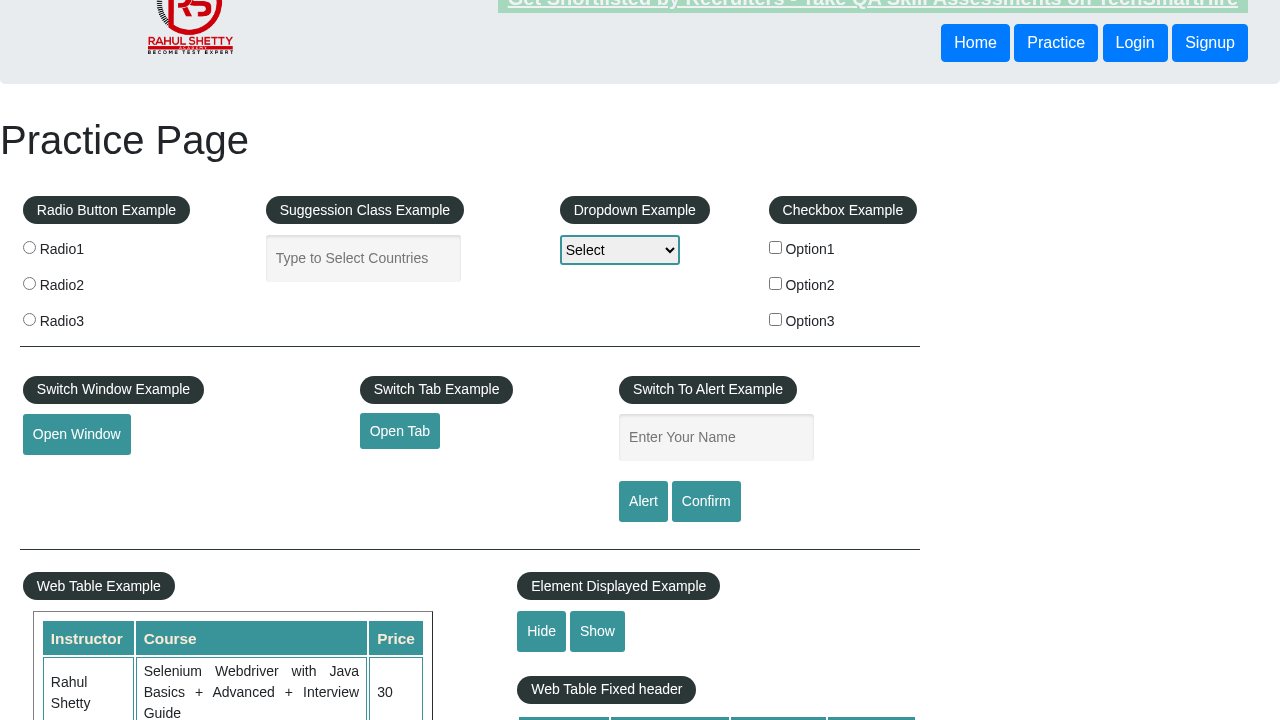
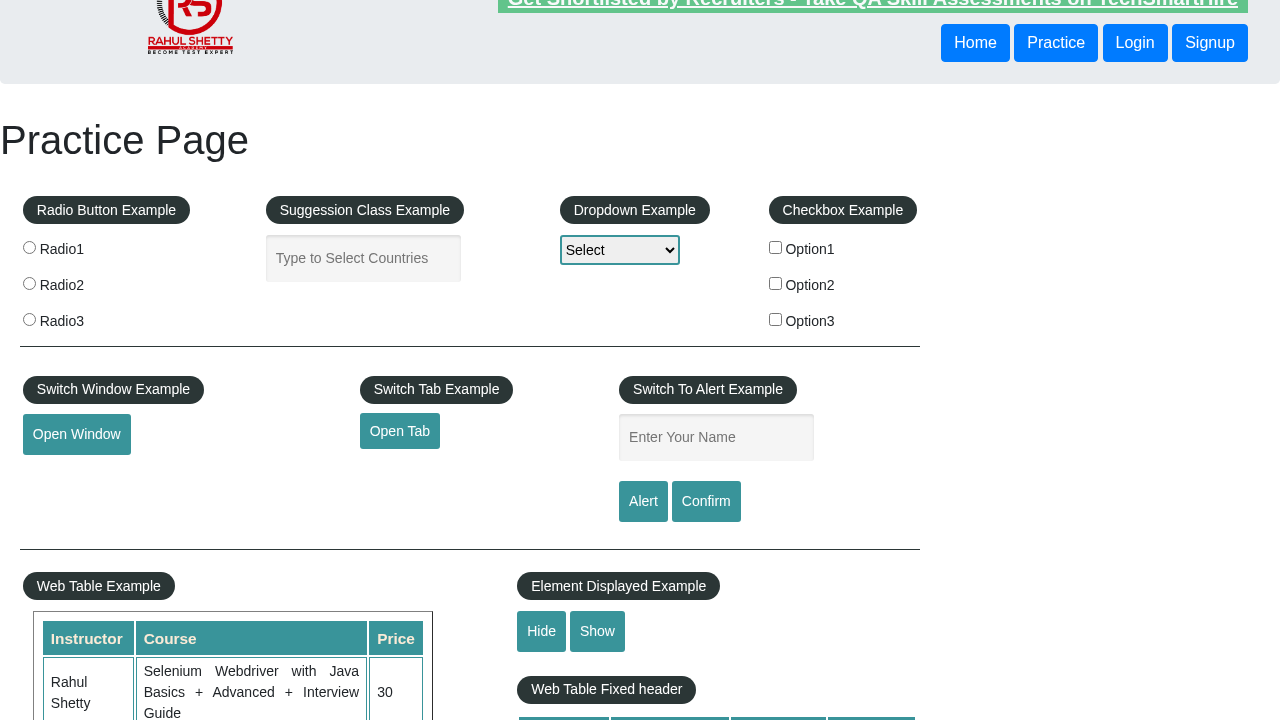
added grep to config

Changed region(s): [[0.375, 0.0, 1.0, 0.0306]]

diff --git a/playwright.config.js b/playwright.config.js
@@ -13,6 +13,8 @@ import { defineConfig, devices } from '@playwright/test';
  * @see https://playwright.dev/docs/test-configuration
  */
 export default defineConfig({
+  grep:/API/,
+  
   testDir: './tests',
   /* Run tests in files in parallel */
   fullyParallel: true,